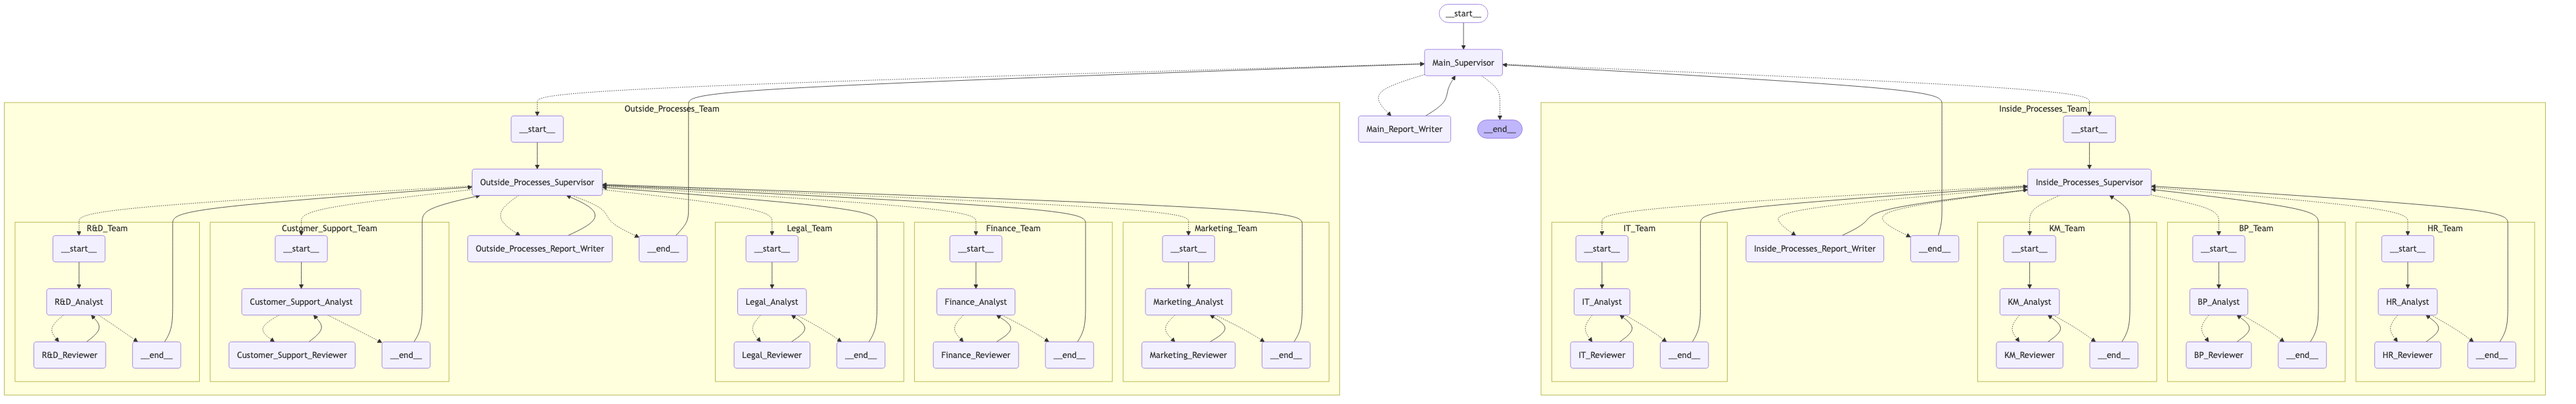
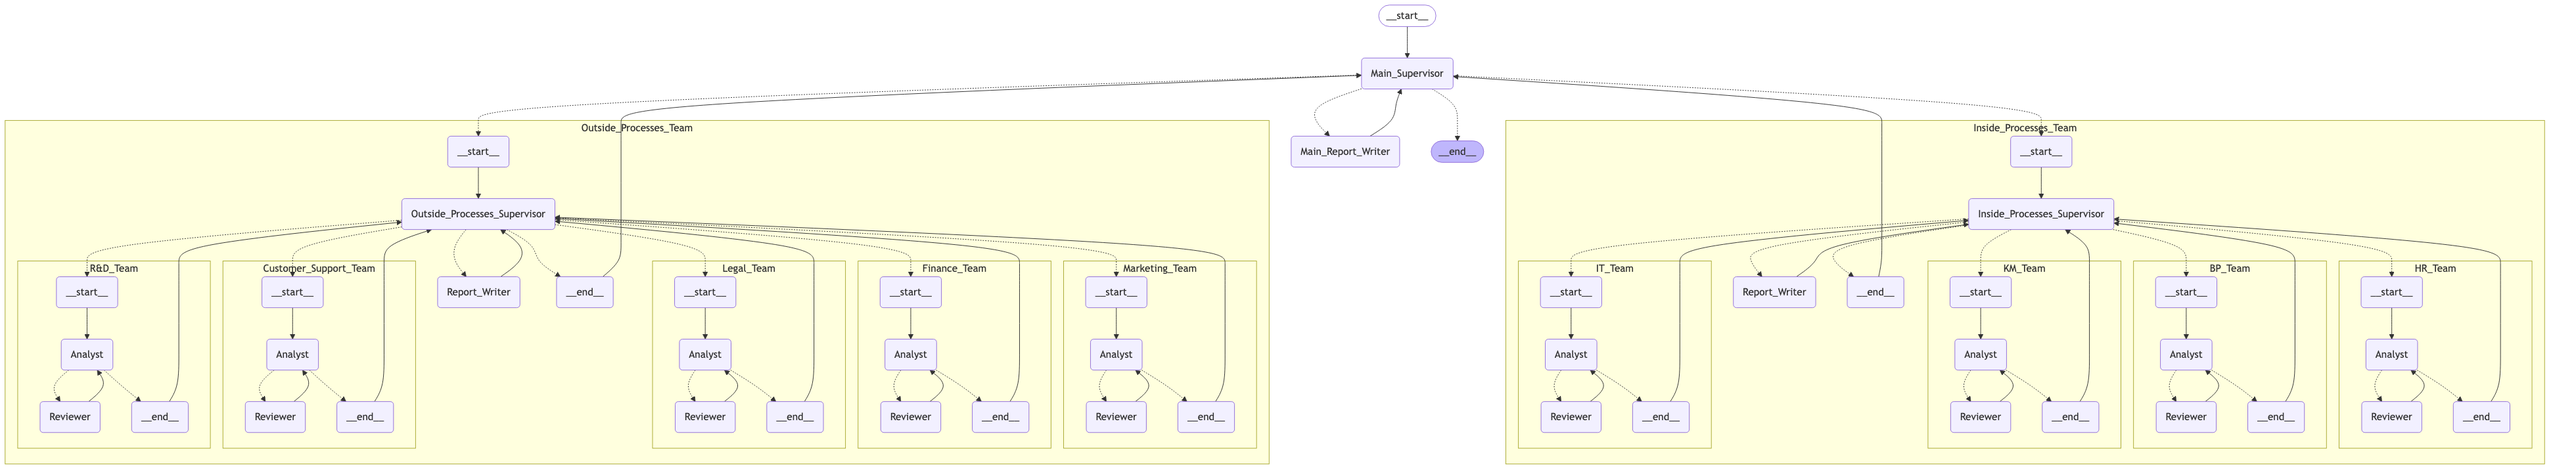
First successful hierarchical research teams initiation

diff --git a/graphHierarchicalTeams/nodes/supervisor.py b/graphHierarchicalTeams/nodes/supervisor.py
@@ -7,7 +7,7 @@ from langgraph.constants import Send
 from langgraph.types import Command
 from langgraph.constants import END
 
-from graphHierarchicalTeams.schema import Perspectives, Subordinates
+from graphHierarchicalTeams.schema import Perspectives, Subordinates, SubordinateTeam
 from graphHierarchicalTeams.states import OverallState
 
 load_dotenv()
@@ -15,13 +15,13 @@ llm = ChatOpenAI(model=os.getenv("MODEL_SUPERVISOR"))
 
 
 subordinates_creation_instructions = """
-You are main supervisor in hierarchical architecture network. You are responsible for creating subordinates.
+You are main supervisor in hierarchical architecture network. You are responsible for creating subordinate teams.
 Use provided in prompts names
 1. Review the provided research topic.
 2. Generate two subordinate teams strictly using provided names:
-    a. **Inside_Processes_Team**: his team will consist of it's subordinate, HR_Team, BP_Team, KM_Team, IT_Team and responsible for internal processes.
-    b. **Outside_Processes_Team**: his team will consist of it's subordinate, Sales_Team, Marketing_Team, PR_Team, Support_Team and responsible for external processes.
-3. Each subordinate supervisor must have explicitly provided name, description and prompts reflecting their responsibilities.
+    a. **Inside_Processes_Team**: this team will consist of it's subordinate supervisor and other little teams responsible for internal processes.
+    b. **Outside_Processes_Team**: this team will consist of it's subordinate supervisor and other little teams responsible for external processes.
+3. Each subordinate team must have explicitly provided name, description and prompts reflecting their responsibilities.
 """
 
 
@@ -31,28 +31,28 @@ def create_subordinates_tool(topic: str) -> dict:
     Generates a list of research teams based on the given topic.
     """
 
-    print(f"Creating subordinates on topic: \n\t{topic}")
+    print(f"Creating subordinate teams on topic: \n\t{topic}")
     structured_llm = llm.with_structured_output(Subordinates)
 
     # LLM Query
     system_message = SystemMessage(content=subordinates_creation_instructions)
-    human_message = HumanMessage(content=f"Generate subordinates for the topic: {topic}.")
+    human_message = HumanMessage(content=f"Generate subordinate teams for the topic: {topic}.")
 
     # Teams generation
-    subordinates: Subordinates = structured_llm.invoke([system_message, human_message])
+    subordinate_teams: Subordinates = structured_llm.invoke([system_message, human_message])
 
     # Serialize
-    serialized_subordinates = [
+    serialized_subordinate_teams = [
         {
-            "name": subordinate.name,
-            "role": subordinate.role,
-            "description": subordinate.description,
+            "name": subordinate_team.name,
+            "description": subordinate_team.description,
+            "subordinate": subordinate_team.subordinate,
         }
-        for subordinate in subordinates.subordinates
+        for subordinate_team in subordinate_teams.subordinates
     ]
 
-    print("Serialized subordinates created!" + str(serialized_subordinates))
-    return {"subordinates": serialized_subordinates}
+    print("Serialized subordinates created!" + str(serialized_subordinate_teams))
+    return {"subordinate_teams": serialized_subordinate_teams}
 
 
 def supervisor_define_edge(state: OverallState):
@@ -61,20 +61,22 @@ def supervisor_define_edge(state: OverallState):
     """
 
     topic = state["topic"]
-    subordinates = state["subordinates"]
     questionnaire = state["questionnaire"]
+    subordinate_teams = state["subordinate_teams"]
 
-    print(f"Initializing subordinates for topic: \n\t{topic}")
+    print(f"Initializing subordinate teams for topic: \n\t{topic}")
 
     return [
         Send(
-            subordinate["name"],
+            subordinate_team["name"],
             {
                 'topic': topic,
-                'questionnaire': subordinates,
-                'subordinates': subordinates,
+                'questionnaire': questionnaire,
+                'name': subordinate_team["name"],
+                'description': subordinate_team["description"],
+                'subordinate': subordinate_team['subordinate'],
             }
-        ) for subordinate in subordinates
+        ) for subordinate_team in subordinate_teams
     ]
 
 
@@ -82,10 +84,10 @@ def superivisor_node(state: OverallState):
     """
     Main supervisor node for orchestrating the research workflow.
     """
-    if "subordinates" not in state or not state["subordinates"]:
+    if "subordinate_teams" not in state or not state["subordinate_teams"]:
         # Generate teams and initialize states
         generated_subordinates = create_subordinates_tool.invoke({"topic": state["topic"]})
-        state["subordinates"] = generated_subordinates["subordinates"]
-        print("Subordinates created and added in state!")
+        state["subordinate_teams"] = generated_subordinates["subordinate_teams"]
+        print("Subordinate teams created and added in state!")
 
     return state

diff --git a/graphHierarchicalTeams/graph.py b/graphHierarchicalTeams/graph.py
@@ -18,18 +18,18 @@ def test_node(state: OverallState):
     return state
 
 
-def create_team_builder(team_name):
+def create_team_builder():
     """
     Создаёт граф команды с аналитиком и рецензентом.
     """
     team_builder = StateGraph(ResearchState)
-    team_builder.add_node(f"{team_name}_Analyst", analyst_node)
-    team_builder.add_node(f"{team_name}_Reviewer", reviewer_node)
+    team_builder.add_node(f"Analyst", analyst_node)
+    team_builder.add_node(f"Reviewer", reviewer_node)
 
-    team_builder.add_edge(START, f"{team_name}_Analyst")
-    team_builder.add_conditional_edges(f"{team_name}_Analyst", should_continue,
-                                       [f"{team_name}_Reviewer", END])
-    team_builder.add_edge(f"{team_name}_Reviewer", f"{team_name}_Analyst")
+    team_builder.add_edge(START, f"Analyst")
+    team_builder.add_conditional_edges(f"Analyst", should_continue,
+                                       [f"Reviewer", END])
+    team_builder.add_edge(f"Reviewer", f"Analyst")
     return team_builder
 
 
@@ -40,13 +40,13 @@ def create_process_team_builder(process_name, subteams):
     :param process_name: Название процесса (например, "Inside_Processes").
     :param subteams: Список названий команд (например, ["HR", "BP", "KM", "IT"]).
     """
-    builder = StateGraph(OverallState)
+    builder = StateGraph(SubordinateState)
     builder.add_node(f"{process_name}_Supervisor", subordinate_node)
-    builder.add_node(f"{process_name}_Report_Writer", test_node)
+    builder.add_node(f"Report_Writer", test_node)
 
     # Добавляем команды
     for team in subteams:
-        team_builder = create_team_builder(team)
+        team_builder = create_team_builder()
         builder.add_node(f"{team}_Team", team_builder.compile())
         builder.add_edge(f"{team}_Team", f"{process_name}_Supervisor")
 
@@ -56,10 +56,10 @@ def create_process_team_builder(process_name, subteams):
     # Добавляем условные связи
     builder.add_conditional_edges(f"{process_name}_Supervisor", subordinate_define_edge,
                                   [f"{team}_Team" for team in subteams] +
-                                  [f"{process_name}_Report_Writer", END])
+                                  [f"Report_Writer", END])
 
     # Связь с Report Writer
-    builder.add_edge(f"{process_name}_Report_Writer", f"{process_name}_Supervisor")
+    builder.add_edge(f"Report_Writer", f"{process_name}_Supervisor")
 
     return builder
 

diff --git a/graphHierarchicalTeams/states.py b/graphHierarchicalTeams/states.py
@@ -3,7 +3,7 @@ from typing import Annotated, List, TypedDict
 
 from langgraph.graph import MessagesState
 
-from graphHierarchicalTeams.schema import Person, ResearchTeam
+from graphHierarchicalTeams.schema import Person, ResearchTeam, SubordinateTeam
 
 
 # Individual state for each analyst and reviewer team
@@ -21,19 +21,19 @@ def deduplicate_merge(old_reviews: List[str], new_reviews: List[str]) -> List[st
     return list(set(old_reviews).union(new_reviews))
 
 
-class subordinate_team(TypedDict):
+class SubordinateState(TypedDict):
     name: str
+    topic: str
+    questionnaire: str # Questionnaire results or user input
     subordinate: Person
     teams: List[ResearchTeam]
-    team_reviews: Annotated[List[str], deduplicate_merge]  # Four teams analysis
+    reviews: Annotated[List[str], deduplicate_merge]  # Four teams analysis
 
 
 # Overall state for the supervisor
 class OverallState(TypedDict):
     topic: str  # Overall topic of analysis
     questionnaire: str  # Questionnaire results or user input
-
     subordinate_reviews: Annotated[List[str], deduplicate_merge]  # Two subordinate supervisors answers
     final_report: str  # Final report generated after all analysts complete their tasks
-
-    subordinates: List[Person]  # List of subordinate supervisors
+    subordinate_teams: List[SubordinateTeam]  # List of subordinate supervisors

diff --git a/graphHierarchicalTeams/schema.py b/graphHierarchicalTeams/schema.py
@@ -22,9 +22,25 @@ class SubordinateTeam(BaseModel):
     name: str = Field(
         description="Use only provided in system message names"
     )
+
+    description: str = Field(
+        description="Short description of what this team is response for."
+    )
+
     subordinate: Person = Field(
         description="Subordinate supervisor person"
     )
+
+    @property
+    def team(self) -> str:
+        """
+        Provides a detailed representation of the team
+        """
+        return (
+            f"Subordinate Team Name: {self.name}\n"
+            f"Description: {self.description}\n\n"
+            f"Subordinate :\n{self.subordinate}\n\n"
+        )
 
 
 class ResearchTeam(BaseModel):
@@ -59,8 +75,8 @@ class ResearchTeam(BaseModel):
 
 
 class Subordinates(BaseModel):
-    subordinates: List[Person] = Field(
-        description="List of subordinate supervisors with their names, roles, and descriptions.",
+    subordinates: List[SubordinateTeam] = Field(
+        description="List of subordinate teams with supervisor's name, role, and description.",
     )
 
 

diff --git a/graphHierarchicalTeams/nodes/subordinate_node.py b/graphHierarchicalTeams/nodes/subordinate_node.py
@@ -6,6 +6,7 @@ from langchain_openai import ChatOpenAI
 from langgraph.constants import Send
 from langgraph.constants import END
 
+from graphHierarchicalTeams.states import SubordinateState
 from graphSupervisor.states import OverallState, Perspectives
 
 
@@ -25,7 +26,7 @@ Use provided in prompts names
 """
 
 
-def subordinate_define_edge(state: OverallState):
+def subordinate_define_edge(state: SubordinateState):
     """
     Initializes states for each research team.
     """
@@ -90,7 +91,7 @@ def create_research_teams_tool(topic: str) -> dict:
     return {"teams": serialized_teams}
 
 
-def subordinate_node(state: OverallState):
+def subordinate_node(state: SubordinateState):
     """
     Supervisor node for orchestrating the research workflow.
     """
